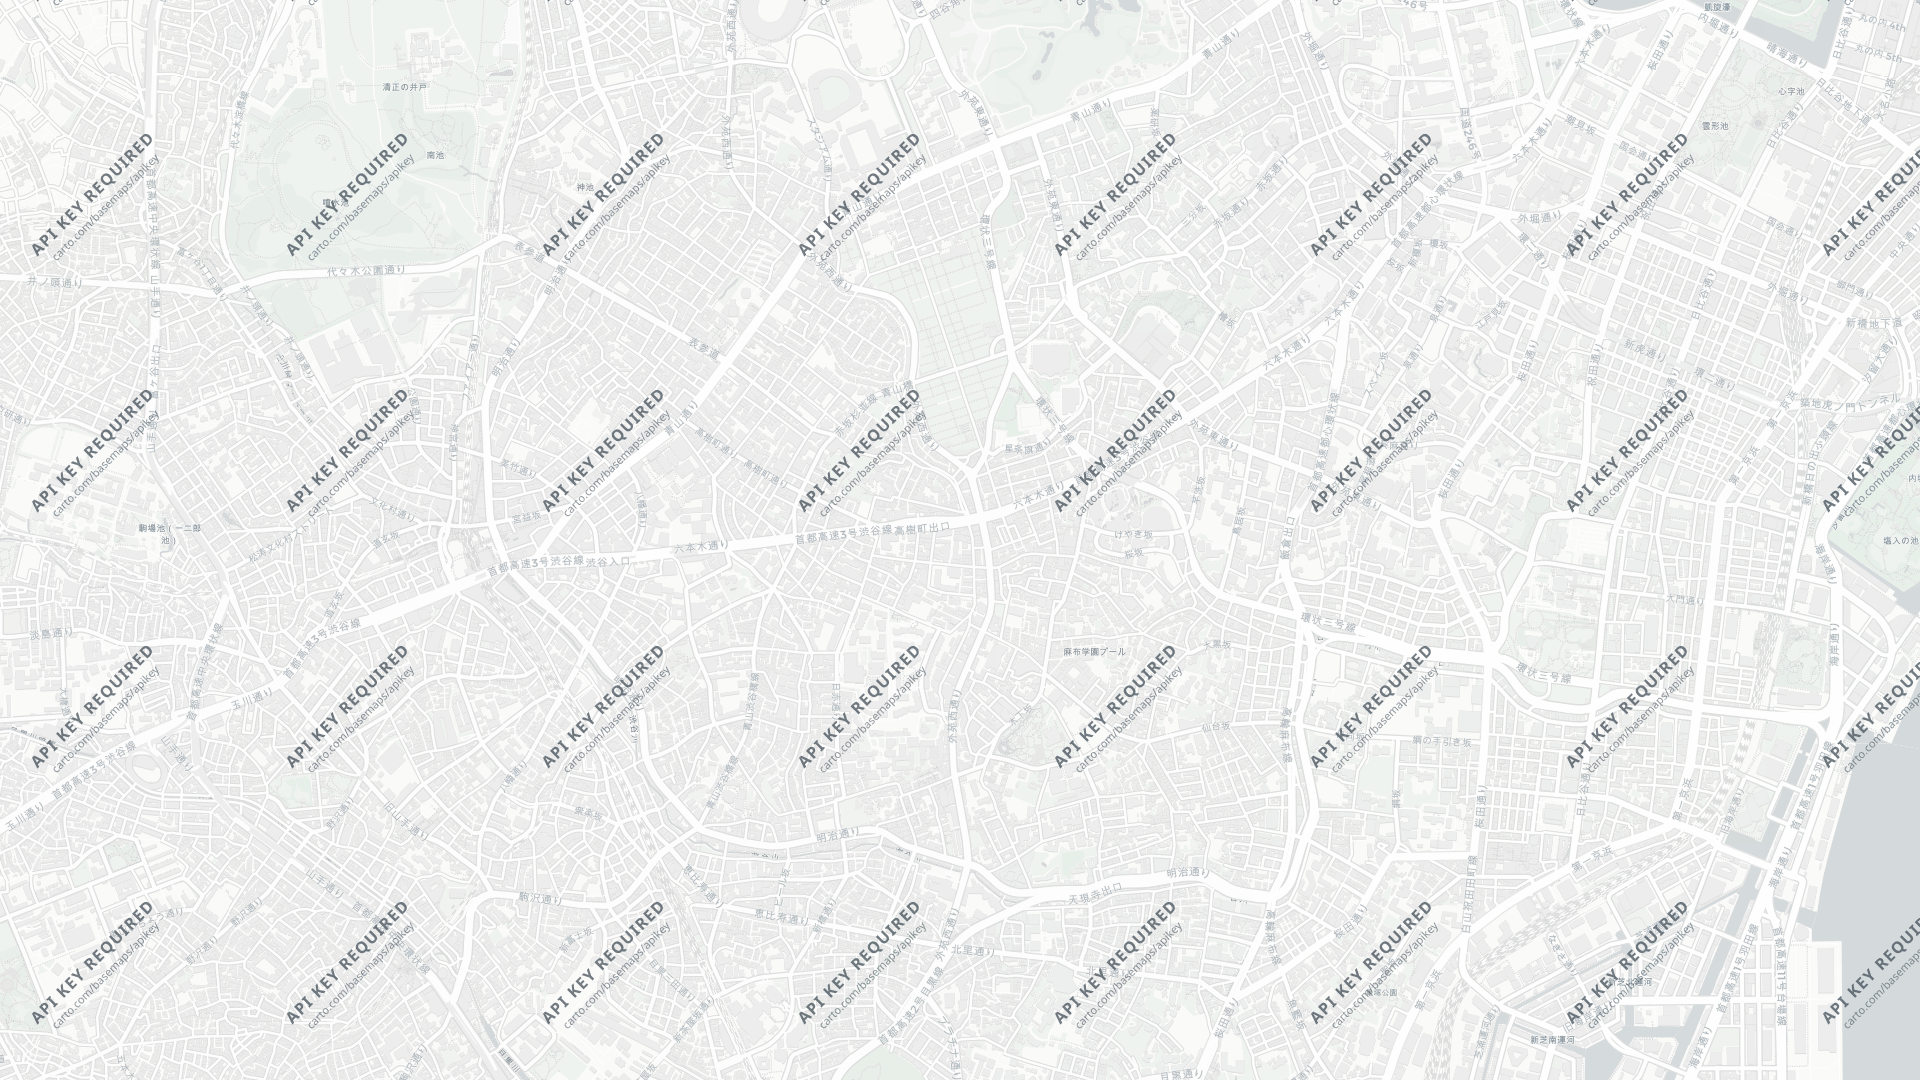
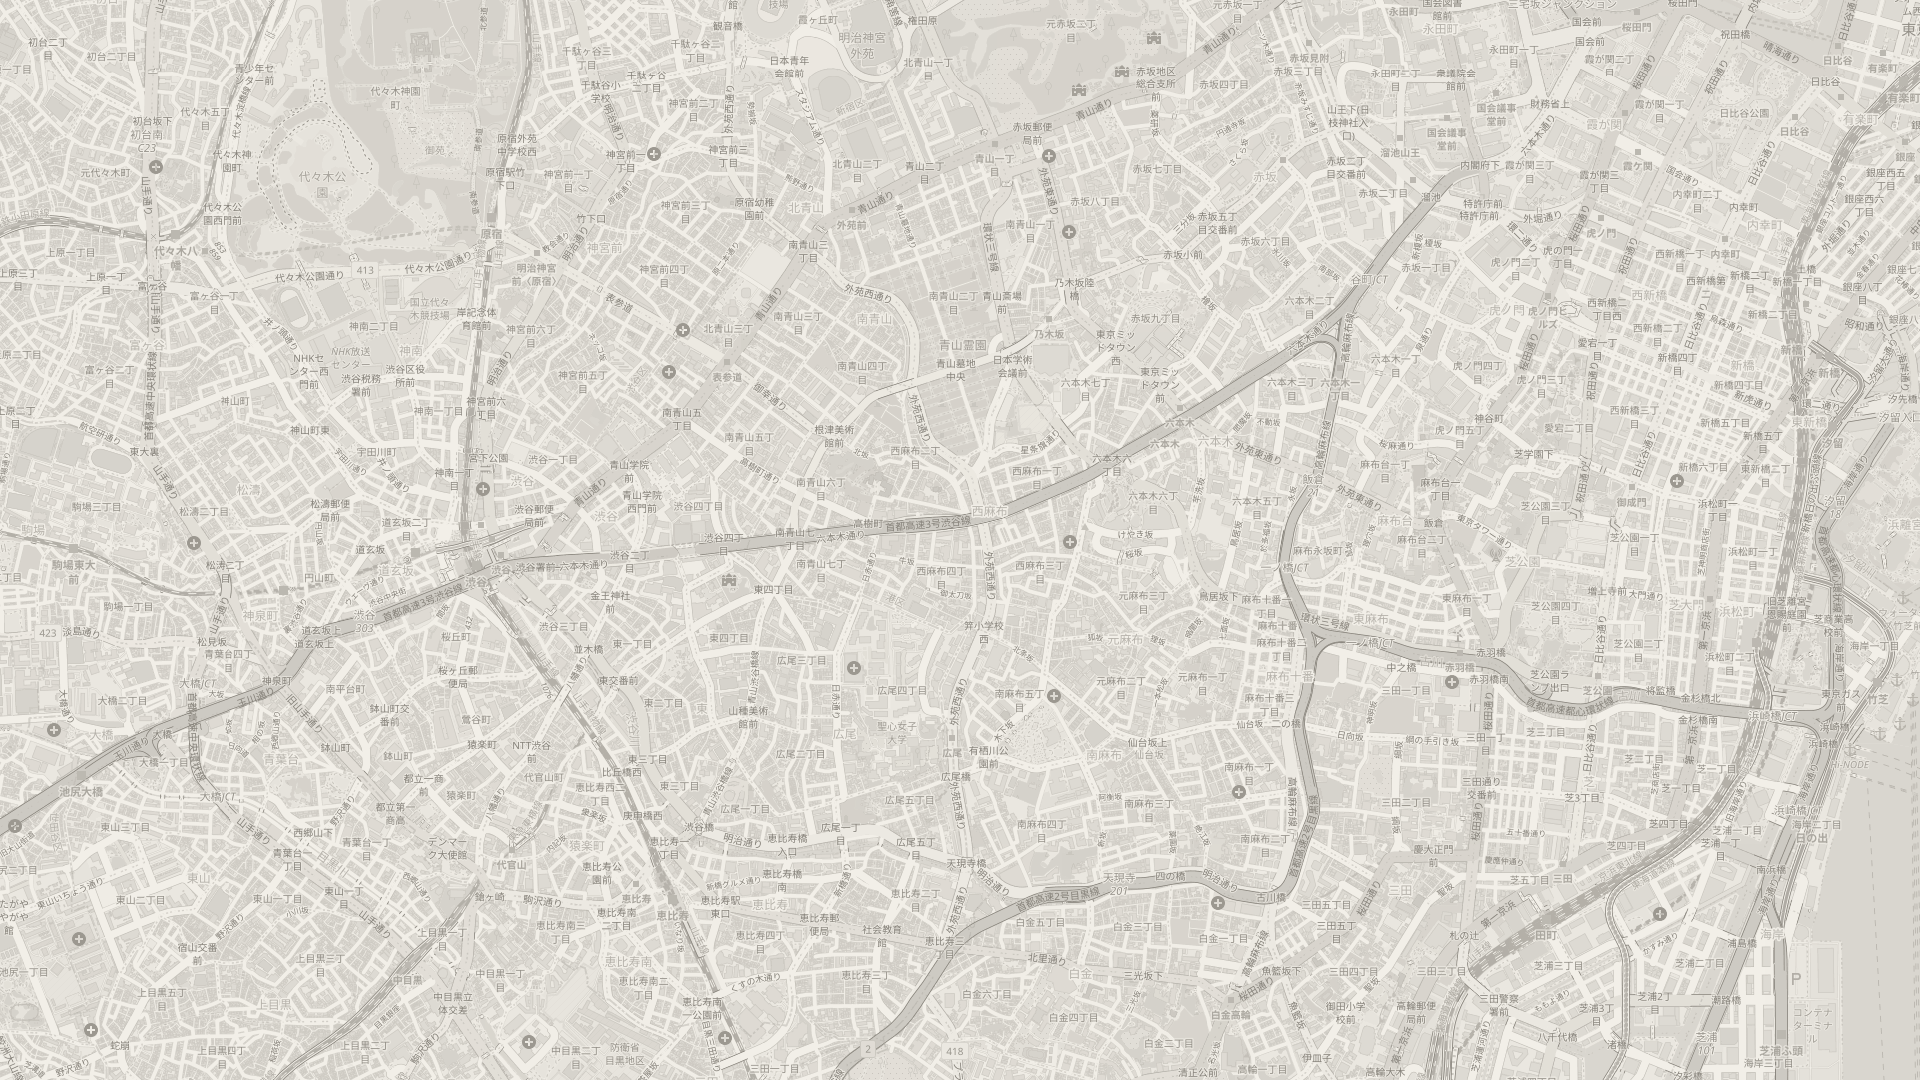
지도 타일 · 가운데 정렬 · 구조 구간 어둡게
지도 (#15·#17·#18)
- CARTO 타일을 키 없이 받아 'API KEY REQUIRED' 워터마크가 화면 전체에
  대각선으로 박힌 채 들어가 있었다. **HTTP 200 으로 멀쩡히 돌아와서**
  실패로 안 잡히고, 검수시트에선 타일이 620px 이라 글자가 안 읽혀 지나갔다
- 키 없이 되는 OSM 으로 바꾸고, 종이 톤 2색으로 눕히는 --wash paper 를 만든다
  (CARTO Positron 을 쓰던 이유가 그 톤이었으니 직접 만든다)
- 받은 뒤 진한 화소 비율로 워터마크를 의심하는 검사를 넣는다
- MapCard: 34+i*10 고정 일정이라 핀 넷짜리 #18 의 마지막(니시아자부·주인공)
  이름표가 74프레임에야 떴다 → 컷 길이 안에서 다 꽂는다
- #15 는 z14 라 랜드마크가 가운데 25% 에 옹기종기 모였다 → z15

가운데 정렬
- CompareCard: 칸 안 글자가 왼쪽 정렬이라 왼 칸은 가운데 선에서 멀찍이,
  오른 칸은 선에 딱 붙어 두 덩이가 흩어져 보였다 → 칸마다 가운데로.
  제목도 PaperTitle 제 기본값에 따로 앉아 있어 위쪽 60% 에 다 몰렸다 →
  제목+두 칸을 한 덩어리로 재서 통째로 시각 중심에
- FloorStackCard: TX 가 372 고정이라 판 전체가 화면 중심보다 180px 왼쪽에
  앉았고, '125m' 과 탑 사이가 20px 뿐이라 글자가 도형에 붙었다 →
  세 칸을 한 덩어리로 재서 가운데, 사이는 40px
- TimelineRailCard: 축이 400~1780 으로 화면 폭 72% 를 먹고 왼쪽 이름은
  30 부터라 전체가 쏠렸다 → 이름칸+사이+축을 재서 가운데, 축은 좁힌다
- #23 축 끝을 2010 으로 (마지막 사건이 2007 인데 2020 까지 늘어져 있었다)

구조·법규 구간(#43~#48)을 청사진으로
어둡게 눕혀 집중을 만든다. 청사진은 이 영상의 도면 테마라 건축기준법
얘기와 결이 맞고, T.ink 가 거의 흰색이라 글자는 자동으로 밝아진다

Claude-Session: https://claude.ai/code/session_0163BvG2wWGZZ4ytYegGjwJG

diff --git a/youtube_pipeline/motion/src/CompareCard.jsx b/youtube_pipeline/motion/src/CompareCard.jsx
@@ -2,7 +2,7 @@ import React from 'react';
 import {AbsoluteFill, useCurrentFrame, interpolate, Img, staticFile} from 'remotion';
 import {useA2ZFonts} from './Fonts';
 import {themeOf, PaperBg, PaperTitle, PaperSource, PaperCaption,
-        CONTENT_BOTTOM, fadeIn, stageTop, FS, LW, SP} from './paper';
+        CONTENT_BOTTOM, fadeIn, stageTop, titleH, FS, LW, SP} from './paper';
 
 // 두 입장/두 항목을 좌우로 대비하는 카드.
 // rightEmpty=true 면 오른쪽에 옅은 대시(—)와 emptyLabel 만 — 한쪽이
@@ -47,7 +47,14 @@ export const CompareCard = ({
 
   const lineN = Math.max(leftLines.length, rightEmpty ? 2 : rightLines.length);
   const blockH = 44 + vSize * 1.1 + lineN * 46 + (caption ? 54 : 0);
-  const COL_TOP = hasImage ? 370 : stageTop(blockH, {top: title ? 300 : 210});
+  // ── 2026-09-09 · 제목과 두 칸이 따로 앉아 있었다 ────────────────────────
+  // 제목은 PaperTitle 이 제 기본값(150)에, 두 칸은 stageTop 으로 각자 자리를
+  // 잡았다. 그래서 위쪽 60% 에 다 몰리고 아래가 통째로 비었다 (#3).
+  // 제목 + 사이 + 두 칸을 **한 덩어리**로 재서 통째로 시각 중심에 앉힌다
+  const headH = title && !hasImage ? titleH(title, sub) : 0;
+  const HEAD_GAP = headH ? SP.BAND : 0;
+  const stackY = stageTop(headH + HEAD_GAP + blockH, {top: 150});
+  const COL_TOP = hasImage ? 370 : stackY + headH + HEAD_GAP;
 
   const COL_W = 560, GAP = 150;
   const LEFT_X = 1920 / 2 - GAP / 2 - COL_W;
@@ -64,7 +71,11 @@ export const CompareCard = ({
   } : null;
 
   const Col = ({x, name, value, lines, empty, o}) => (
-    <div style={{position: 'absolute', top: COL_TOP, left: x, width: COL_W, opacity: o}}>
+    // 칸 안 글자가 왼쪽 정렬이라, 왼 칸은 가운데 선에서 멀찍이 떨어지고
+    // 오른 칸은 선에 딱 붙어 두 덩이가 흩어져 보였다. 칸마다 가운데로 모으면
+    // 두 값이 선을 사이에 두고 마주 본다 — 견주는 그림이 그제야 성립한다
+    <div style={{position: 'absolute', top: COL_TOP, left: x, width: COL_W,
+                 textAlign: 'center', opacity: o}}>
       {textPanel ? <div style={textPanel} /> : null}
       <div style={{position: 'relative', fontFamily: 'A2Z Light, sans-serif',
                    fontSize: FS.SMALL, letterSpacing: '0.02em',
@@ -123,9 +134,9 @@ export const CompareCard = ({
 
       {/* 가운데 자 — 두 값을 가르는 선. 위아래 삐침이 있어야 '가른다'로 읽힌다 */}
       <svg width={1920} height={1080} style={{position: 'absolute', inset: 0}}>
-        <g opacity={0.34 * fadeIn(frame, 10)}>
+        <g opacity={0.44 * fadeIn(frame, 10)}>
           <line x1={960} y1={COL_TOP - 24} x2={960} y2={COL_TOP + ruleH}
-                stroke={hasImage ? '#FFFFFF' : T.ink} strokeWidth={LW.HAIR} />
+                stroke={hasImage ? '#FFFFFF' : T.ink} strokeWidth={LW.THIN} />
           <line x1={946} y1={COL_TOP - 24} x2={974} y2={COL_TOP - 24}
                 stroke={hasImage ? '#FFFFFF' : T.ink} strokeWidth={LW.HAIR} />
           <line x1={946} y1={COL_TOP + ruleH} x2={974} y2={COL_TOP + ruleH}

diff --git a/youtube_pipeline/motion/src/FloorStackCard.jsx b/youtube_pipeline/motion/src/FloorStackCard.jsx
@@ -45,9 +45,18 @@ export const FloorStackCard = ({
   const fH = H / floors;                   // 한 층
   // 띠·라벨이 없는 컷에서는 오른쪽이 통째로 빈다. 그럴 땐 탑을 가운데로
   // 옮기고 넓힌다 — 라벨 자리를 비워 두는 건 라벨이 있을 때 얘기다
+  // ── 2026-09-09 · 판이 왼쪽으로 쏠려 있었다 ──────────────────────────────
+  // TX 를 372 에 못 박아 두니 [높이표 122–352][탑 372–692][이름표 810–1430]
+  // 전체가 122–1430, 즉 화면 가운데(960)보다 180px 왼쪽에 앉았다.
+  // 게다가 높이표(‘125m’)와 탑 사이가 20px 뿐이라 글자가 도형에 붙었다.
+  // 세 칸(높이표·탑·이름표)을 한 덩어리로 재서 통째로 가운데에 놓는다
   const bare = zones.length === 0;
   const TW = bare ? 420 : 320;
-  const TX = bare ? (1920 - TW) / 2 : 372;
+  const H_W = 290;                         // 왼쪽 높이표 칸 (라벨 250 + 사이 40)
+  const LAB_GAP = 118, LAB_W = 620;        // 이음선 + 오른쪽 이름표 칸
+  const TX = bare
+    ? (1920 - TW) / 2
+    : Math.round((1920 - (H_W + TW + LAB_GAP + LAB_W)) / 2) + H_W;
   const yOfFloor = (f) => BOT - f * fH;    // f층 **바닥**
   const yOfM = (m) => BOT - m * mpp;
 
@@ -114,7 +123,7 @@ export const FloorStackCard = ({
         </defs>
 
         {/* 지반선 */}
-        <line x1={TX - 120} y1={BOT} x2={1560} y2={BOT}
+        <line x1={TX - 130} y1={BOT} x2={Math.min(1800, TX + TW + LAB_GAP + 420)} y2={BOT}
               stroke={T.ink} strokeWidth={LW.THIN} opacity={0.5} />
 
         <g clipPath="url(#fs-grow)">
@@ -224,7 +233,7 @@ export const FloorStackCard = ({
       ))}
 
       {/* 전체 높이 — 탑 왼쪽 위 */}
-      <div style={{position: 'absolute', left: TX - 250, top: TOP - 12, width: 230,
+      <div style={{position: 'absolute', left: TX - H_W, top: TOP - 12, width: H_W - 40,
                    textAlign: 'right', opacity: fadeIn(frame, 30, 14)}}>
         <div style={{fontFamily: 'A2Z Bold, A2Z Medium, sans-serif', fontSize: FS.HERO,
                      color: T.ink, letterSpacing: '-0.03em', lineHeight: 1}}>

diff --git a/youtube_pipeline/motion/src/MapCard.jsx b/youtube_pipeline/motion/src/MapCard.jsx
@@ -41,7 +41,16 @@ export const MapCard = ({
 }) => {
   useA2ZFonts();
   const frame = useCurrentFrame();
-  const {fps} = useVideoConfig();
+  const {fps, durationInFrames} = useVideoConfig();
+  // ── 2026-09-09 · 마지막 핀 이름표가 컷이 끝나도록 안 떴다 ────────────────
+  // 34 + i*10 에 꽂고 44 + i*10 에 이름을 띄우는 고정 일정이었다. 핀이 넷인
+  // #18 은 마지막(니시아자부·주인공)이 74프레임에야 뜨기 시작한다 — 검수
+  // 스틸(78프레임)에서 29% 로 흐리게 나왔고, 짧은 컷이면 본편에서도 못 뜬다.
+  // **컷 길이 안에서 다 꽂는다** — 마지막 이름표가 끝나기 0.6초 전에는 서게
+  const PIN_T0 = 20;
+  const nPin = Math.max(1, pins.length);
+  const PIN_GAP = Math.max(
+    4, Math.min(10, Math.floor((durationInFrames - 18 - PIN_T0 - 10) / nPin)));
   const T = themeOf(theme);
   const dark = T.dark;
 
@@ -124,8 +133,8 @@ export const MapCard = ({
         {pins.map((p, i) => {
           // 핀이 많으면 간격을 좁힌다. 10프레임 고정이면 6개째가 3초 뒤에 꽂혀
           // 짧은 컷에서는 아예 안 보인다 (검수에서 3개만 보였다)
-          const gap = pins.length > 4 ? 6 : 10;
-          const s = spring({frame: frame - (34 + i * gap), fps,
+          const gap = PIN_GAP;
+          const s = spring({frame: frame - (PIN_T0 + i * gap), fps,
                             config: {damping: 200, mass: 0.5}});
           if (s <= 0.001) return null;
           const [X, Y] = px(p.lat, p.lon);
@@ -147,7 +156,7 @@ export const MapCard = ({
           프레임마다 값이 누적돼 라벨이 계속 내려간다 */}
       {(() => { window.__mapDy = []; window.__mapSide = []; return null; })()}
       {pins.map((p, i) => {
-        const o = fadeIn(frame, 44 + i * (pins.length > 4 ? 6 : 10));
+        const o = fadeIn(frame, PIN_T0 + 10 + i * PIN_GAP);
         if (o <= 0.01) return null;
         const [X, Y] = px(p.lat, p.lon);
         const size = fit(p.label || '', 40, 520);

diff --git a/youtube_pipeline/motion/src/TimelineRailCard.jsx b/youtube_pipeline/motion/src/TimelineRailCard.jsx
@@ -38,8 +38,18 @@ export const TimelineRailCard = ({
   if (!n) return <AbsoluteFill><PaperBg theme={theme} {...bg} /></AbsoluteFill>;
 
   // 레일 이름이 있으면 왼쪽에 자리를 비우고, 이름이 없는 일정표는 화면 가운데로 편다.
+  // ── 2026-09-09 · 레일이 화면 가득 늘어지고 왼쪽으로 쏠렸다 ───────────────
+  // 400~1780 이라 축이 화면 폭의 72% 를 먹는데, 왼쪽 레일 이름은 30 부터
+  // 시작하니 [이름 30–294][축 400–1780] 전체가 오른쪽으로 밀려 앉았다.
+  // 이름칸 + 사이 + 축을 한 덩어리로 재서 가운데에 놓고, 축은 좁혀서
+  // 사건 사이 간격이 벌어져 보이게 한다
   const hasLabel = rails.some((r) => r.label);
-  const X0 = hasLabel ? 400 : 250, X1 = hasLabel ? 1780 : 1670;
+  const NAME_W = 330, NAME_GAP = 76;
+  const RAIL_W = hasLabel ? 1060 : 1300;
+  const X0 = hasLabel
+    ? Math.round((1920 - (NAME_W + NAME_GAP + RAIL_W)) / 2) + NAME_W + NAME_GAP
+    : Math.round((1920 - RAIL_W) / 2);
+  const X1 = X0 + RAIL_W;
   // 사건 라벨 높이를 번갈아 — 가까운 사건끼리 안 겹침.
   // 다만 레일이 여럿이면 **위 레일 선 위로 올라타면 안 된다.** 190px 을
   // 그대로 쓰면 한국 레일의 라벨이 정확히 일본 레일 선 위에 앉는다 (#2).

diff --git a/youtube_pipeline/scripts/fetch_map.py b/youtube_pipeline/scripts/fetch_map.py
@@ -29,13 +29,25 @@ PUBLIC = os.path.join(ROOT, 'motion', 'public')
 TILE = 256
 UA = 'sangkwon-analyzer/1.0 (youtube pipeline; contact: no23sonate@gmail.com)'
 
+# ── 2026-09-09 · CARTO 는 키 없이 못 쓴다 ──────────────────────────────
+# light/dark 로 받아 둔 지도 석 장에 'API KEY REQUIRED' 워터마크가 화면
+# 전체에 대각선으로 박혀 있었다. **HTTP 200 으로 멀쩡히 돌아온다** — 실패로
+# 안 잡히고, 검수시트에서는 타일이 620px 이라 글자가 안 읽혀 그대로 지나갔다.
+# 키 없이 되는 osm 을 기본으로 두고, 종이 톤은 받은 뒤에 입힌다(--wash).
 STYLES = {
+    'osm':   ('https://tile.openstreetmap.org/{z}/{x}/{y}.png',
+              '© OpenStreetMap contributors'),
+    # 아래 둘은 CARTO 계정 키가 있어야 한다. 키 없이 받으면 워터마크가 박힌다
     'light': ('https://a.basemaps.cartocdn.com/light_all/{z}/{x}/{y}.png',
               '© OpenStreetMap contributors © CARTO'),
     'dark':  ('https://a.basemaps.cartocdn.com/dark_all/{z}/{x}/{y}.png',
               '© OpenStreetMap contributors © CARTO'),
-    'osm':   ('https://tile.openstreetmap.org/{z}/{x}/{y}.png',
-              '© OpenStreetMap contributors'),
+}
+# 종이 톤 — 밝은 쪽은 종이색, 어두운 쪽은 옅은 먹. 채도를 걷어내고 그 사이로
+# 편다. CARTO Positron 을 쓰던 이유가 이 톤이었으니 그걸 직접 만든다
+WASH = {
+    'paper': ((0x86, 0x82, 0x7A), (0xF2, 0xEF, 0xE8)),
+    'blueprint': ((0x0E, 0x18, 0x2C), (0x8FA, 0x0, 0x0)),   # 미사용 자리표시
 }
 MAX_TILES = 64          # 타일 서버 예의. 이걸 넘기면 줌을 낮추라고 말한다
 NOMINATIM = 'https://nominatim.openstreetmap.org/search'
@@ -74,7 +86,32 @@ def px2deg(x, y, z):
     return lat, lon
 
 
-def fetch(project, name, lat, lon, zoom, w, h, style):
+def wash_paper(im):
+    """지도를 종이 톤 2색으로 눕힌다 — 위에 얹을 글자·핀이 이겨야 한다."""
+    import numpy as np
+    from PIL import Image
+    a = np.asarray(im.convert('RGB'), dtype=np.float32)
+    lum = (a[..., 0] * 0.299 + a[..., 1] * 0.587 + a[..., 2] * 0.114) / 255.0
+    # 가운데 대비를 살짝 눌러 도로망이 얼룩이 되지 않게
+    lum = np.clip(lum, 0, 1) ** 1.06
+    lo, hi = WASH['paper']
+    out = np.stack([lo[c] + lum * (hi[c] - lo[c]) for c in range(3)], axis=-1)
+    return Image.fromarray(np.clip(out, 0, 255).astype('uint8'))
+
+
+def looks_watermarked(im):
+    """키 없이 받은 타일에 박히는 워터마크를 잡는다.
+
+    베이스맵은 밝다 — 근검정 화소가 3% 를 넘는 일이 없다. 워터마크는 진한
+    글자가 판 전체에 반복되므로 그 비율이 훌쩍 뛴다. 실패가 HTTP 200 으로
+    돌아오는 판이라, 받은 다음에 그림을 보고 판단하는 수밖에 없다.
+    """
+    import numpy as np
+    g = np.asarray(im.convert('L'))
+    return float((g < 110).mean())
+
+
+def fetch(project, name, lat, lon, zoom, w, h, style, wash=None):
     from PIL import Image
     url, credit = STYLES[style]
 
@@ -102,6 +139,13 @@ def fetch(project, name, lat, lon, zoom, w, h, style):
             got += 1
             time.sleep(0.08)                    # 타일 서버 예의
 
+    dark = looks_watermarked(canvas)
+    if dark > 0.06:
+        print(f'  ✗ 진한 화소가 {dark:.1%} 다 — 워터마크(키 요구) 타일일 수 있다.')
+        print(f'    {style} 대신 osm 으로 받아 볼 것.')
+    if wash == 'paper':
+        canvas = wash_paper(canvas)
+
     out = os.path.join(PUBLIC, project, f'{name}.png')
     os.makedirs(os.path.dirname(out), exist_ok=True)
     canvas.save(out)
@@ -116,7 +160,7 @@ def fetch(project, name, lat, lon, zoom, w, h, style):
     # 같은 파일 줄이 이미 있으면 **갈아 끼운다.** 그냥 붙이기만 하면 줌이나
     # 스타일을 바꿔 다시 받을 때마다 줄이 쌓이고, 지난 줄이 지금 파일과
     # 다른 내용을 말하게 된다 (z17 light 를 받아 놨는데 "dark" 줄이 남는 식).
-    row = (f"| `{name}.png` | 지도 타일 z{zoom} ({style}) | "
+    row = (f"| `{name}.png` | 지도 타일 z{zoom} ({style}{'·' + wash if wash else ''}) | "
            f"{credit}, **ODbL** | `{credit}` |\n")
     lines = open(cred, encoding='utf-8').read().splitlines(keepends=True)
     kept = [ln for ln in lines if not ln.startswith(f"| `{name}.png` |")]
@@ -140,7 +184,9 @@ def main():
     ap.add_argument('--zoom', type=int, default=15,
                     help='13=도시권 · 15=동네 · 17=블록 (기본 15)')
     ap.add_argument('--size', nargs=2, type=int, default=[1920, 1080], metavar=('W', 'H'))
-    ap.add_argument('--style', choices=list(STYLES), default='light')
+    ap.add_argument('--style', choices=list(STYLES), default='osm')
+    ap.add_argument('--wash', choices=['paper'], default=None,
+                    help='받은 뒤 종이 톤 2색으로 눕힌다 (osm 색이 시끄러울 때)')
     ap.add_argument('--find', action='append', default=[],
                     help='주소·지명으로 좌표를 찾아 출력만 한다 (여러 번). 지도는 안 받는다')
     a = ap.parse_args()
@@ -165,7 +211,8 @@ def main():
         print('      근처 랜드마크(역·구청·학교)로 잡을 것.')
         return
 
-    fetch(a.project, a.name, a.center[0], a.center[1], a.zoom, a.size[0], a.size[1], a.style)
+    fetch(a.project, a.name, a.center[0], a.center[1], a.zoom,
+          a.size[0], a.size[1], a.style, a.wash)
 
 
 if __name__ == '__main__':

diff --git a/youtube_pipeline/motion/public/니시아자부/CREDITS.md b/youtube_pipeline/motion/public/니시아자부/CREDITS.md
@@ -2,9 +2,6 @@
 
 | 파일 | 원본 | 출처 / 라이선스 | 화면 표기 |
 |---|---|---|---|
-| `minato_area.png` | 지도 타일 z14 (light) | © OpenStreetMap contributors © CARTO, **ODbL** | `© OpenStreetMap contributors © CARTO` |
-| `nishiazabu_close.png` | 지도 타일 z16 (light) | © OpenStreetMap contributors © CARTO, **ODbL** | `© OpenStreetMap contributors © CARTO` |
-| `station_walk.png` | 지도 타일 z15 (light) | © OpenStreetMap contributors © CARTO, **ODbL** | `© OpenStreetMap contributors © CARTO` |
 | `elderly_couple_street.mp4` | https://www.pexels.com/video/8970842/ (pexels) | Pexels, **Pexels License** | `Pexels / Pexels` |
 | `elderly_group_park.mp4` | https://www.pexels.com/video/4806687/ (pexels) | Pexels, **Pexels License** | `Pexels / Pexels` |
 | `skytree_night.mp4` | https://www.pexels.com/video/9396326/ (pexels) | Pexels, **Pexels License** | `Pexels / Pexels` |
@@ -41,3 +38,6 @@
 | `seoul_elder_couple.jpg` | https://www.pexels.com/photo/32028728/ | **Pexels License** | `Pexels` |
 | `tower_lowangle.jpg` | https://www.pexels.com/photo/4985454/ | **Pexels License** | `Pexels` |
 | `warehouse_aisle_bw.jpg` | https://www.pexels.com/photo/31886730/ | **Pexels License** | `Pexels` |
+| `nishiazabu_close.png` | 지도 타일 z16 (osm·paper) | © OpenStreetMap contributors, **ODbL** | `© OpenStreetMap contributors` |
+| `station_walk.png` | 지도 타일 z15 (osm·paper) | © OpenStreetMap contributors, **ODbL** | `© OpenStreetMap contributors` |
+| `minato_area.png` | 지도 타일 z15 (osm·paper) | © OpenStreetMap contributors, **ODbL** | `© OpenStreetMap contributors` |
